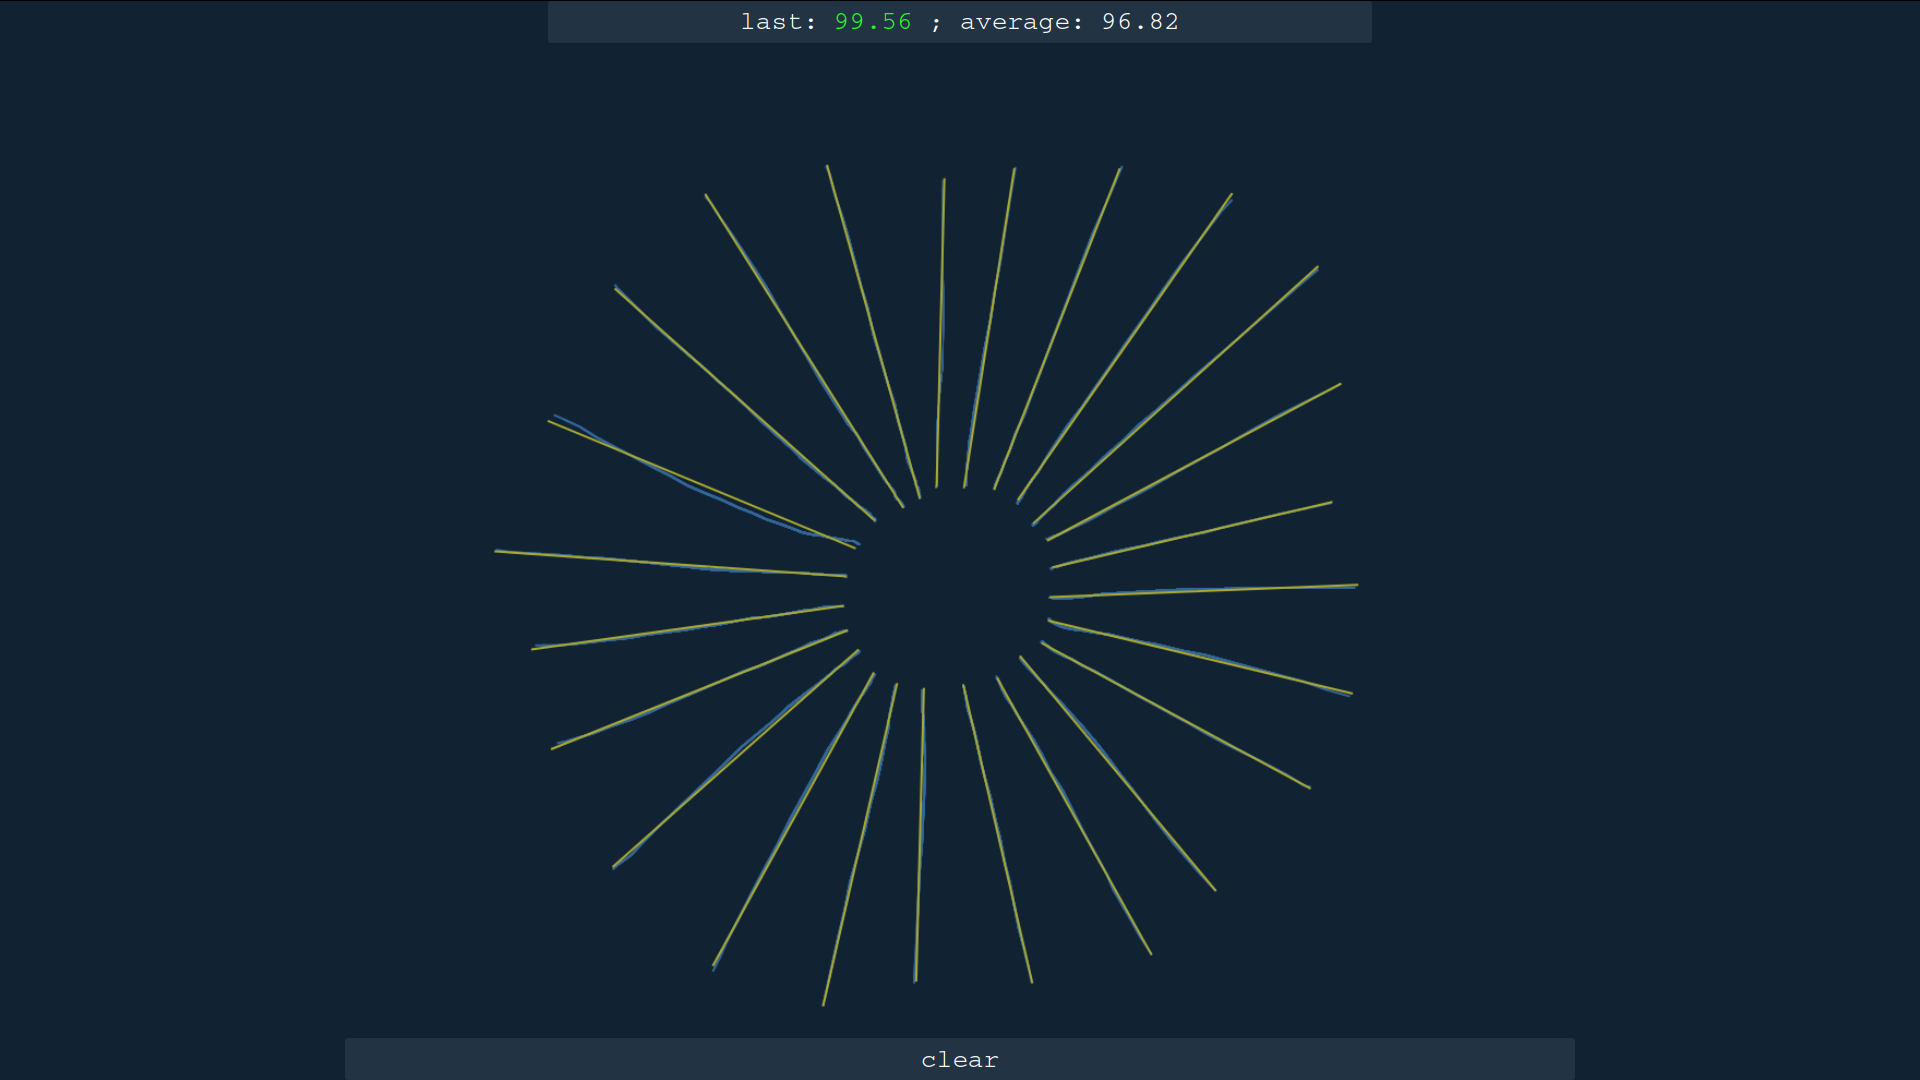
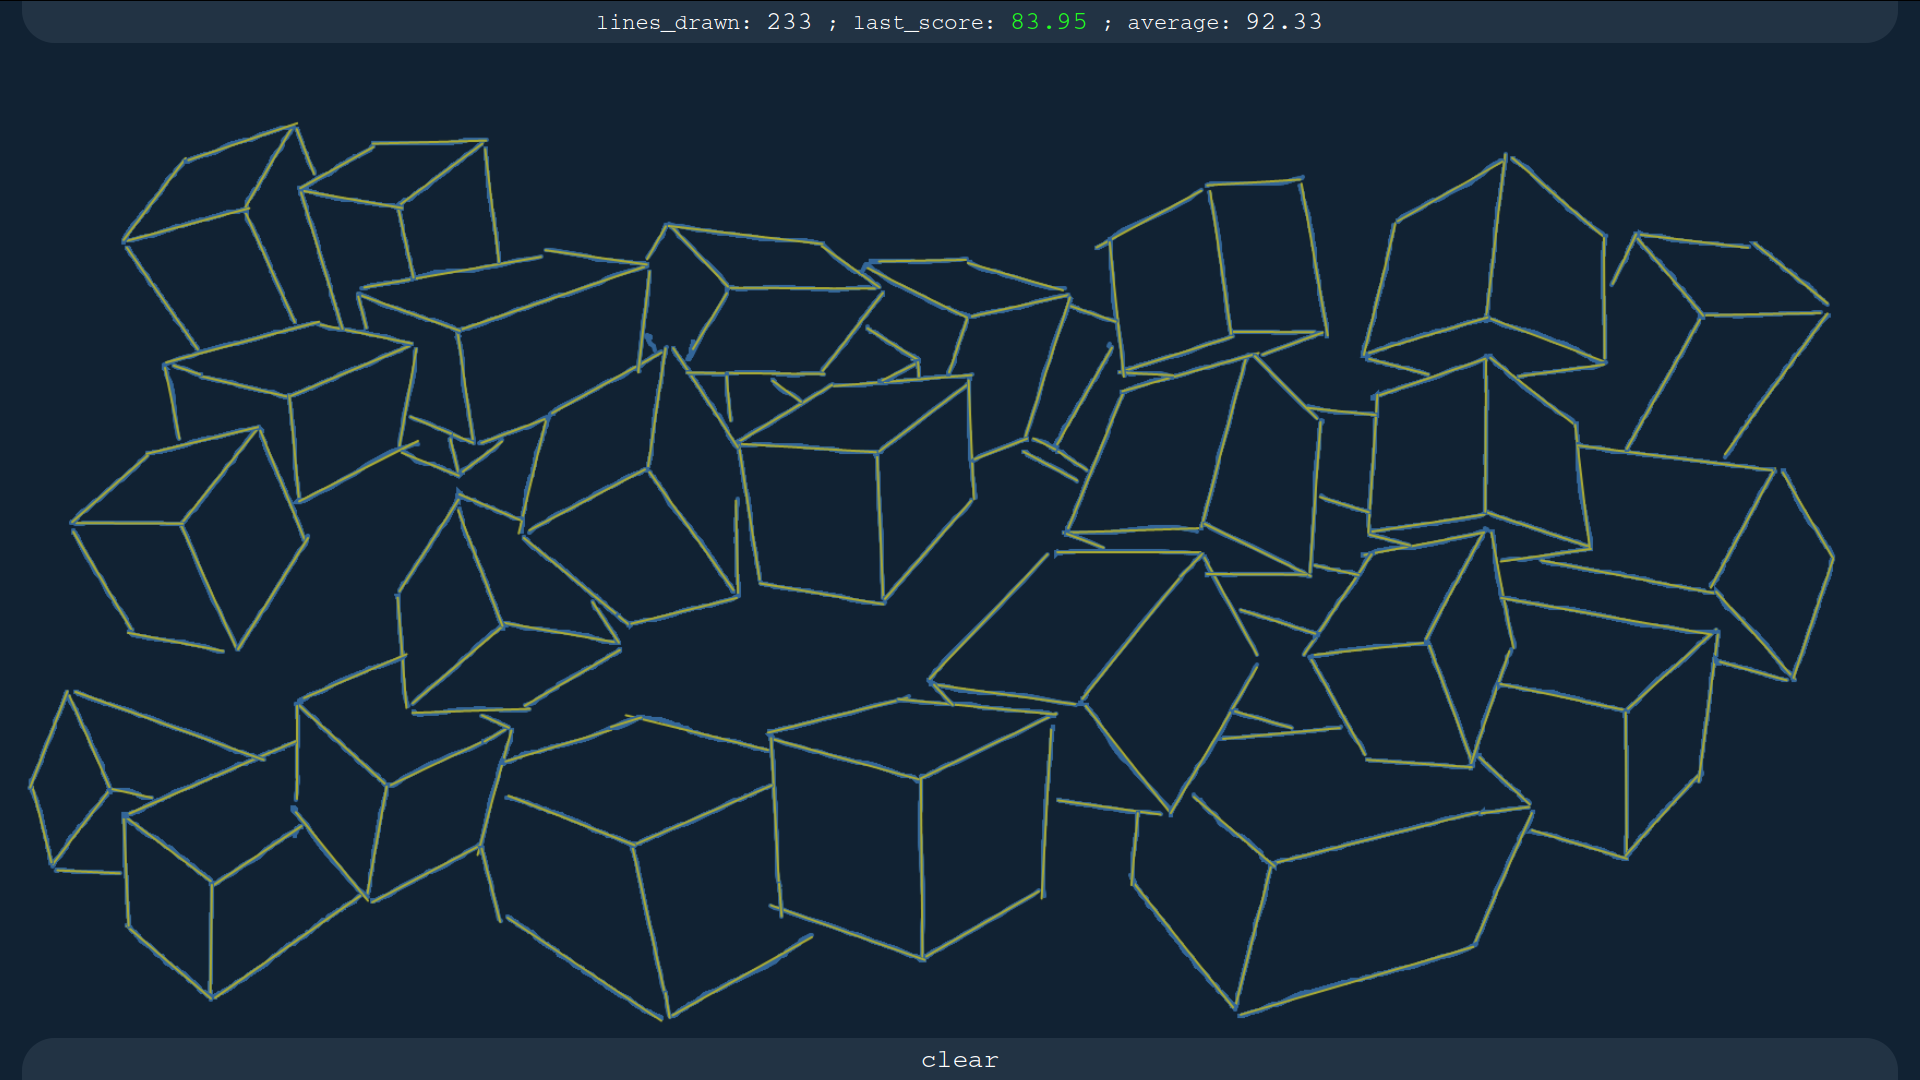
updating lines

diff --git a/exe/lines/formatted.html b/exe/lines/formatted.html
@@ -6,7 +6,7 @@
 	 </a> 
 </div>
 
-<div class="bookmark">./exe/lines/readme.txt</div><pre class=notes>
+<div class="bookmark">exe/lines//readme.txt</div><pre class=notes>
 When you're learning how to draw, one important skill is drawing straight lines. It means you have a strong control. 
 
 This is a training program to practice drawing straight lines on a tablet. 
@@ -14,7 +14,7 @@ For every line you draw, it overlays the line you were most probably trying to d
 
 Try drawing sun rays out from the center, aiming to maintain straight lines in every direction.  
 </pre>
-<div class="bookmark">./exe/lines/main.html</div><pre class=html>
+<div class="bookmark">exe/lines//main.html</div><pre class=html>
 <kw>&lt!doctype html&gt</kw>
 
 <kw>&lthtml lang="en"&gt</kw>
@@ -27,26 +27,24 @@ Try drawing sun rays out from the center, aiming to maintain straight lines in e
 
 
 <kw>&ltbody&gt</kw>
-	<kw>&ltdiv id="score_board"&gt</kw>0<kw>&lt/div&gt</kw>
+	<kw>&ltdiv id="score_board"&gt</kw>begin drawing lines to practice:<kw>&lt/div&gt</kw>
 	<kw>&ltcanvas id="canvas"&gt</kw><kw>&lt/canvas&gt</kw>	
 	<kw>&ltdiv id="button"&gt</kw>clear<kw>&lt/div&gt</kw>	
 	<kw>&ltscript src="logic.js"&gt</kw><kw>&lt/script&gt</kw>
 <kw>&lt/body&gt</kw>
 <kw>&lt/html&gt</kw>
 </pre>
-<div class="bookmark">./exe/lines/style.css</div><pre class=css>
+<div class="bookmark">exe/lines//style.css</div><pre class=css>
 <css></css>
 <sc>body {</sc>
 <css>	cursor: crosshair;</css>
 <css>	background-color: #123;</css>
 <css>	overflow:hidden;</css>
+<css>	padding : 0;</css>
 <sc>}</sc>
 <css></css>
 <sc>canvas {</sc>
 <css>	color: #234;</css>
-<css>	border: 3px solid;</css>
-<css>	margin: -10px;</css>
-<css>	margin-top : -100px;</css>
 <sc>}</sc>
 <css></css>
 <sc>div#button, div#score_board {</sc>
@@ -58,18 +56,20 @@ Try drawing sun rays out from the center, aiming to maintain straight lines in e
 <sc>}</sc>
 <css></css>
 <sc>div#score_board {</sc>
-<css>	padding-right: 10vw;</css>
-<css>	padding-left: 10vw;</css>
-<css>	position : sticky;</css>
+<css>	position : absolute;</css>
+<css>	left: 20px;</css>
+<css>	right: 20px;</css>
+<css>	margin-left: auto;</css>
+<css>	margin-right: auto;</css>
 <css>	border-bottom-left-radius: 30px;</css>
 <css>	border-bottom-right-radius: 30px;</css>
 <css>	top:0;</css>
 <sc>}</sc>
 <css></css>
 <sc>div#button {</sc>
-<css>	padding-right: 30vw;</css>
-<css>	padding-left:30vw;</css>
-<css>	position: sticky;</css>
+<css>	position : absolute;</css>
+<css>	left: 20px;</css>
+<css>	right: 20px;</css>
 <css>	border-top-left-radius: 30px;</css>
 <css>	border-top-right-radius: 30px;</css>
 <css>	bottom: 0;</css>
@@ -82,8 +82,9 @@ Try drawing sun rays out from the center, aiming to maintain straight lines in e
 <sc>green {</sc>
 <css>	color: #2f2;</css>
 <sc>}</sc>
+<css></css>
 </pre>
-<div class="bookmark">./exe/lines/logic.js</div><pre class=js>
+<div class="bookmark">exe/lines//logic.js</div><pre class=js>
 
 
 <kw>function</kw> findLineByLeastSquares<sc>(</sc>values_x, values_y<sc>)</sc> <sc>{</sc>
@@ -157,7 +158,6 @@ context.lineWidth=4<sc>;</sc>
 <kw>let</kw> drawn_points_y = <sc>[</sc><sc>]</sc><sc>;</sc>
 <kw>let</kw> rotated_points_x = <sc>[</sc><sc>]</sc><sc>;</sc>
 <kw>let</kw> rotated_points_y = <sc>[</sc><sc>]</sc><sc>;</sc>
-<kw>let</kw> score_stack = <sc>[</sc><sc>]</sc><sc>;</sc>
 
 canvas.onpointerdown = <sc>(</sc>event<sc>)</sc> =&gt <sc>{</sc>
 	context.beginPath<sc>(</sc><sc>)</sc><sc>;</sc>
@@ -167,6 +167,7 @@ canvas.onpointerdown = <sc>(</sc>event<sc>)</sc> =&gt <sc>{</sc>
 	<kw>let</kw> y = <sc>(</sc>event.clientY-bb.top<sc>)</sc>*<sc>(</sc>canvas.height/bb.height<sc>)</sc><sc>;</sc>
 	context.moveTo<sc>(</sc>x,y<sc>)</sc><sc>;</sc>
 	context.strokeStyle = <dbl_quote>"#369"</dbl_quote><sc>;</sc>
+	context.lineWidth = 4<sc>;</sc>
 	context.fillStyle = <dbl_quote>"#369"</dbl_quote><sc>;</sc>
 <sc>}</sc>
 
@@ -220,6 +221,7 @@ canvas.onpointermove = <sc>(</sc>event<sc>)</sc> =&gt <sc>{</sc>
 	<sc>}</sc>
 	<kw>if</kw> <sc>(</sc>r_squared &gt 0.2<sc>)</sc><sc>{</sc>
 		ideal_line<sc>(</sc>xes,yes<sc>)</sc><sc>;</sc>
+		lines_drawn += 1<sc>;</sc>
 	<sc>}</sc>
 	
 	write_score<sc>(</sc>Math.round<sc>(</sc>r_squared*10000<sc>)</sc>/100<sc>)</sc><sc>;</sc>
@@ -244,15 +246,16 @@ canvas.onpointerup = <sc>(</sc><sc>)</sc> =&gt <sc>{</sc>
 <sc>}</sc>
 
 <kw>function</kw> write_score<sc>(</sc>score<sc>)</sc> <sc>{</sc>
-	<kw>if</kw> <sc>(</sc>score<sc>)</sc>
+	<kw>if</kw> <sc>(</sc>score && score &lt Infinity<sc>)</sc><sc>{</sc>
 		total += score<sc>;</sc>
-	lines_drawn += 1<sc>;</sc>
-	score_board.innerHTML = <dbl_quote>""</dbl_quote><sc>;</sc> 
-	score_board.innerHTML = score_board.innerHTML + <dbl_quote>"last<sc>:</sc> "</dbl_quote><sc>;</sc> 
-	score_board.innerHTML = score_board.innerHTML + <dbl_quote>"&ltgreen&gt"</dbl_quote> + score.toString<sc>(</sc><sc>)</sc><sc>;</sc>
-	score_board.innerHTML = score_board.innerHTML + <dbl_quote>" <sc>;</sc> average<sc>:</sc> "</dbl_quote><sc>;</sc>
-	score_board.innerHTML = score_board.innerHTML + <sc>(</sc>Math.round<sc>(</sc>total/lines_drawn*100<sc>)</sc>/100<sc>)</sc>.toFixed<sc>(</sc>2<sc>)</sc>.toString<sc>(</sc><sc>)</sc><sc>;</sc>
-	
+		score_board.innerHTML = <dbl_quote>""</dbl_quote><sc>;</sc> 
+		score_board.innerHTML = score_board.innerHTML + <dbl_quote>"&ltsmall&gtlines_drawn<sc>:</sc> "</dbl_quote><sc>;</sc> 
+		score_board.innerHTML = score_board.innerHTML + lines_drawn.toString<sc>(</sc><sc>)</sc><sc>;</sc>
+		score_board.innerHTML = score_board.innerHTML + <dbl_quote>"&ltsmall&gt <sc>;</sc> last_score<sc>:</sc> "</dbl_quote><sc>;</sc> 
+		score_board.innerHTML = score_board.innerHTML + <dbl_quote>"&ltgreen&gt"</dbl_quote> + score.toString<sc>(</sc><sc>)</sc><sc>;</sc>
+		score_board.innerHTML = score_board.innerHTML + <dbl_quote>"&ltsmall&gt <sc>;</sc> average<sc>:</sc> "</dbl_quote><sc>;</sc>
+		score_board.innerHTML = score_board.innerHTML + <sc>(</sc>Math.round<sc>(</sc>total/lines_drawn*100<sc>)</sc>/100<sc>)</sc>.toFixed<sc>(</sc>2<sc>)</sc>.toString<sc>(</sc><sc>)</sc><sc>;</sc>
+	<sc>}</sc>	
 <sc>}</sc>
 
 <kw>function</kw> ideal_line<sc>(</sc>xes, yes<sc>)</sc><sc>{</sc>
@@ -290,12 +293,13 @@ document.body.addEventListener<sc>(</sc><sgl_quote>'touchmove'</sgl_quote>, prev
 
 <kw>function</kw> resize<sc>(</sc><sc>)</sc><sc>{</sc>
 	<kw>let</kw> context = canvas.getContext<sc>(</sc><sgl_quote>'2d'</sgl_quote><sc>)</sc><sc>;</sc>
-	<kw>let</kw> width = Math.round<sc>(</sc>window.innerWidth*1.5<sc>)</sc><sc>;</sc>
-	<kw>let</kw> height = Math.round<sc>(</sc>window.innerHeight*1.5<sc>)</sc><sc>;</sc>
+	<kw>let</kw> width = window.innerWidth<sc>;</sc>
+	<kw>let</kw> height = window.innerHeight<sc>;</sc>
 	canvas.setAttribute<sc>(</sc><sgl_quote>'width'</sgl_quote>, width.toString<sc>(</sc><sc>)</sc><sc>)</sc><sc>;</sc> 
 	canvas.setAttribute<sc>(</sc><sgl_quote>'height'</sgl_quote>,height.toString<sc>(</sc><sc>)</sc><sc>)</sc><sc>;</sc>
 	canvas.width = canvas.width<sc>;</sc> canvas.height = canvas.height<sc>;</sc>
 	<kw>let</kw> font_height_pix = Math.floor<sc>(</sc>canvas.width/12<sc>)</sc>.toString<sc>(</sc><sc>)</sc><sc>;</sc>
+	context.lineCap = <dbl_quote>"round"</dbl_quote><sc>;</sc>
 	context.font = font_height_pix + <dbl_quote>"px Courier New"</dbl_quote><sc>;</sc>
 	context.textAlign = <dbl_quote>"left"</dbl_quote><sc>;</sc>
 <sc>}</sc>
